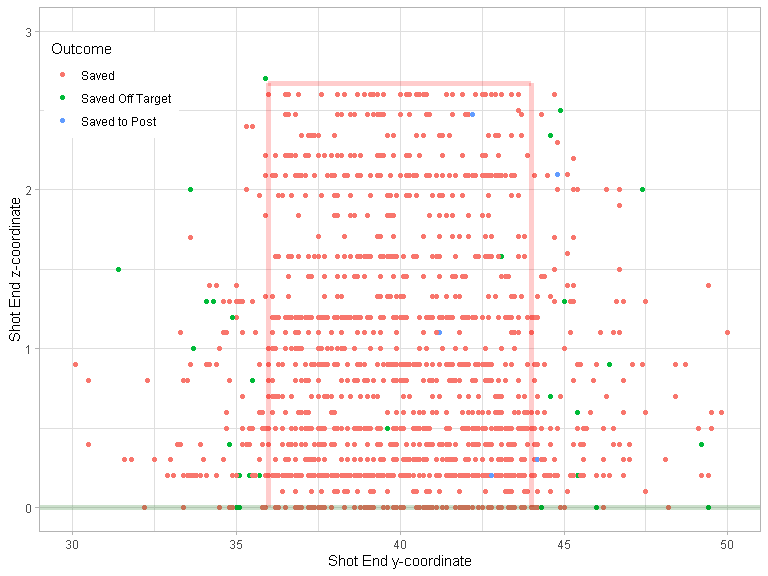
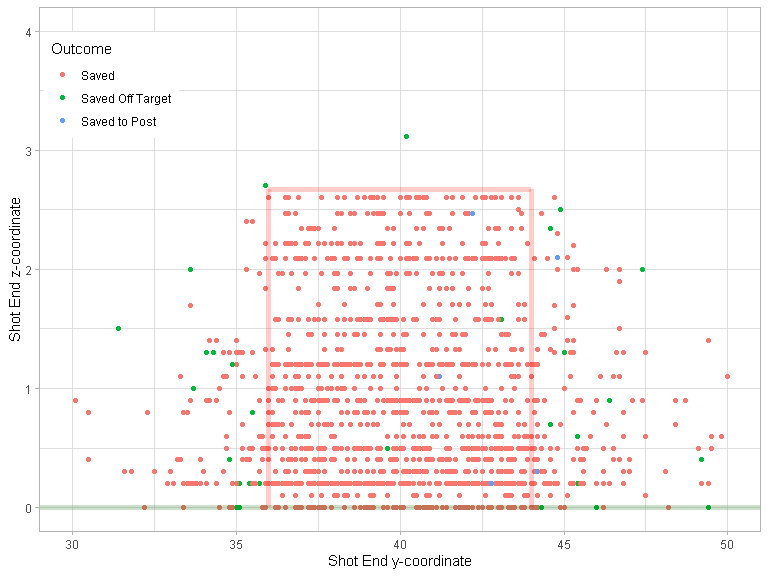
Improve aspect ratios

diff --git a/reproduction/miss_it_like_messi.md b/reproduction/miss_it_like_messi.md
@@ -79,13 +79,13 @@ statsbomb_shots_processed |>
   plot_grass(color = "darkgreen", cex = 2, alpha = 0.2) +
   ggplot2::theme_light() +
   ggplot2::xlim(30, 50) +
-  ggplot2::ylim(0, 3) +
+  ggplot2::ylim(0, 4) +
   ggplot2::labs(
     x = "Shot End y-coordinate",
     y = "Shot End z-coordinate"
   ) +
   ggplot2::theme(legend.position = c(0.1, 0.85))
-#> Warning: Removed 13 rows containing missing values (geom_point).
+#> Warning: Removed 12 rows containing missing values (geom_point).
 ```
 
 ![](miss_it_like_messi_files/figure-gfm/figure_2-1.png)<!-- -->
@@ -106,13 +106,13 @@ statsbomb_shots_processed |>
   plot_grass(color = "darkgreen", cex = 2, alpha = 0.2) +
   ggplot2::theme_light() +
   ggplot2::xlim(30, 50) +
-  ggplot2::ylim(0, 3) +
+  ggplot2::ylim(0, 4) +
   ggplot2::labs(
     x = "Shot End y-coordinate",
     y = "Shot End z-coordinate"
   ) +
   ggplot2::theme(legend.position = c(0.1, 0.85))
-#> Warning: Removed 2 rows containing missing values (geom_point).
+#> Warning: Removed 1 rows containing missing values (geom_point).
 ```
 
 ![](miss_it_like_messi_files/figure-gfm/figure_2-2.png)<!-- -->
@@ -134,7 +134,7 @@ shots |>
   plot_grass(color = "darkgreen", cex = 2) +
   ggplot2::theme_light() +
   ggplot2::xlim(35, 45) +
-  ggplot2::ylim(0, 3) +
+  ggplot2::ylim(0, 4) +
   ggplot2::labs(
     x = "Shot End y-coordinate",
     y = "Shot End z-coordinate"
